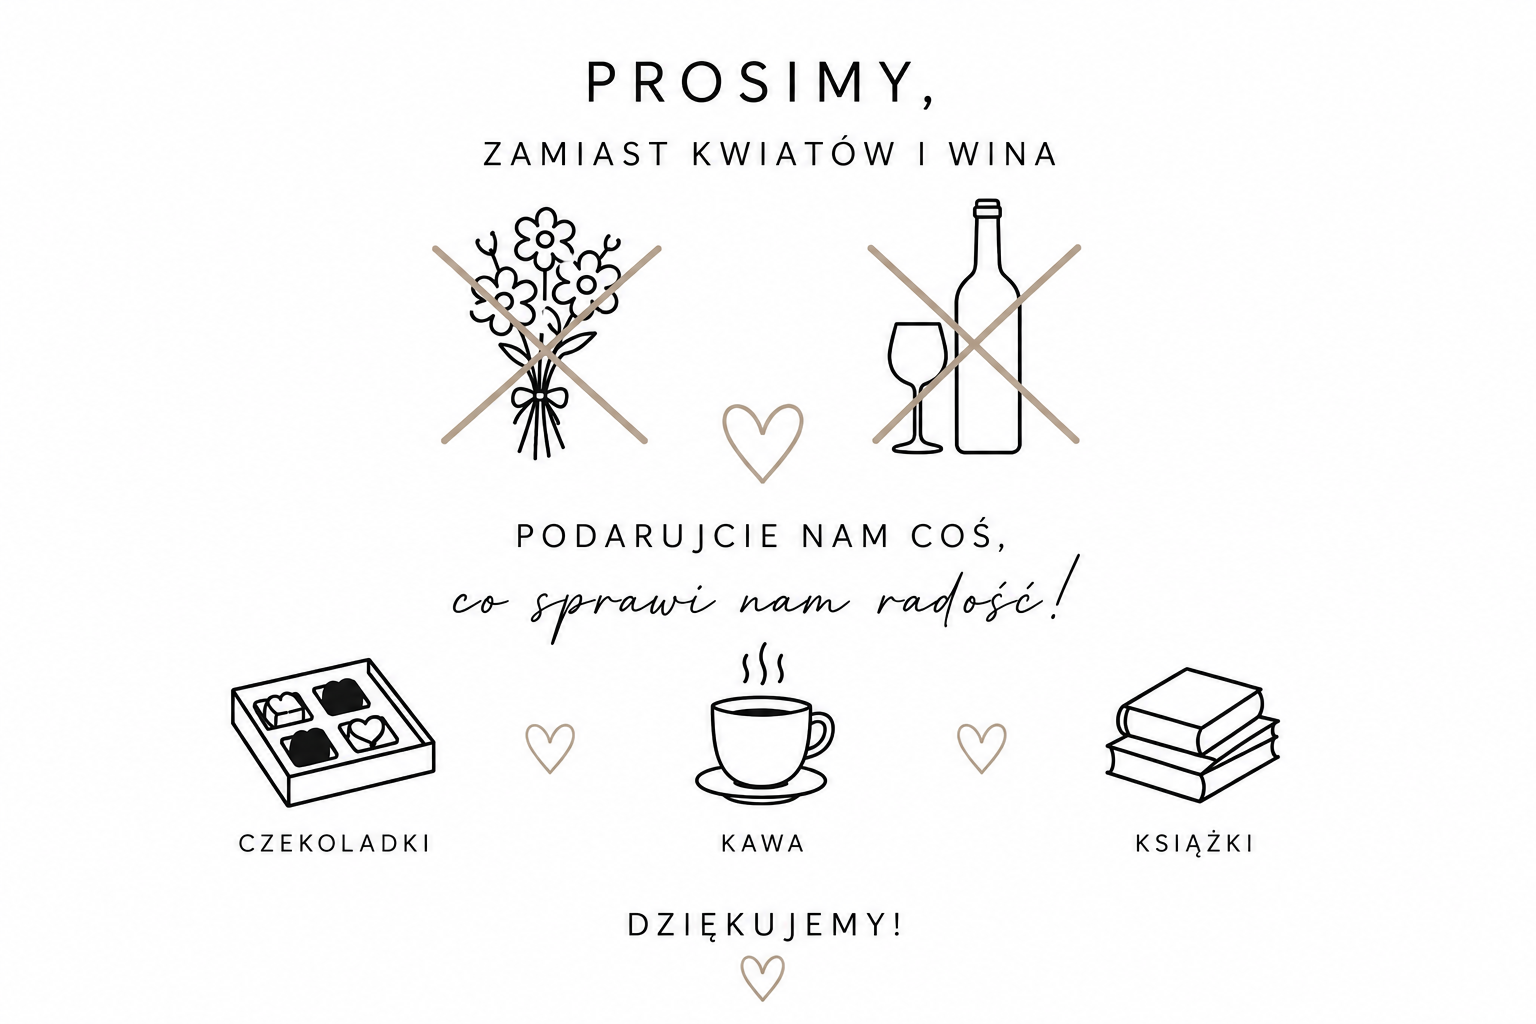
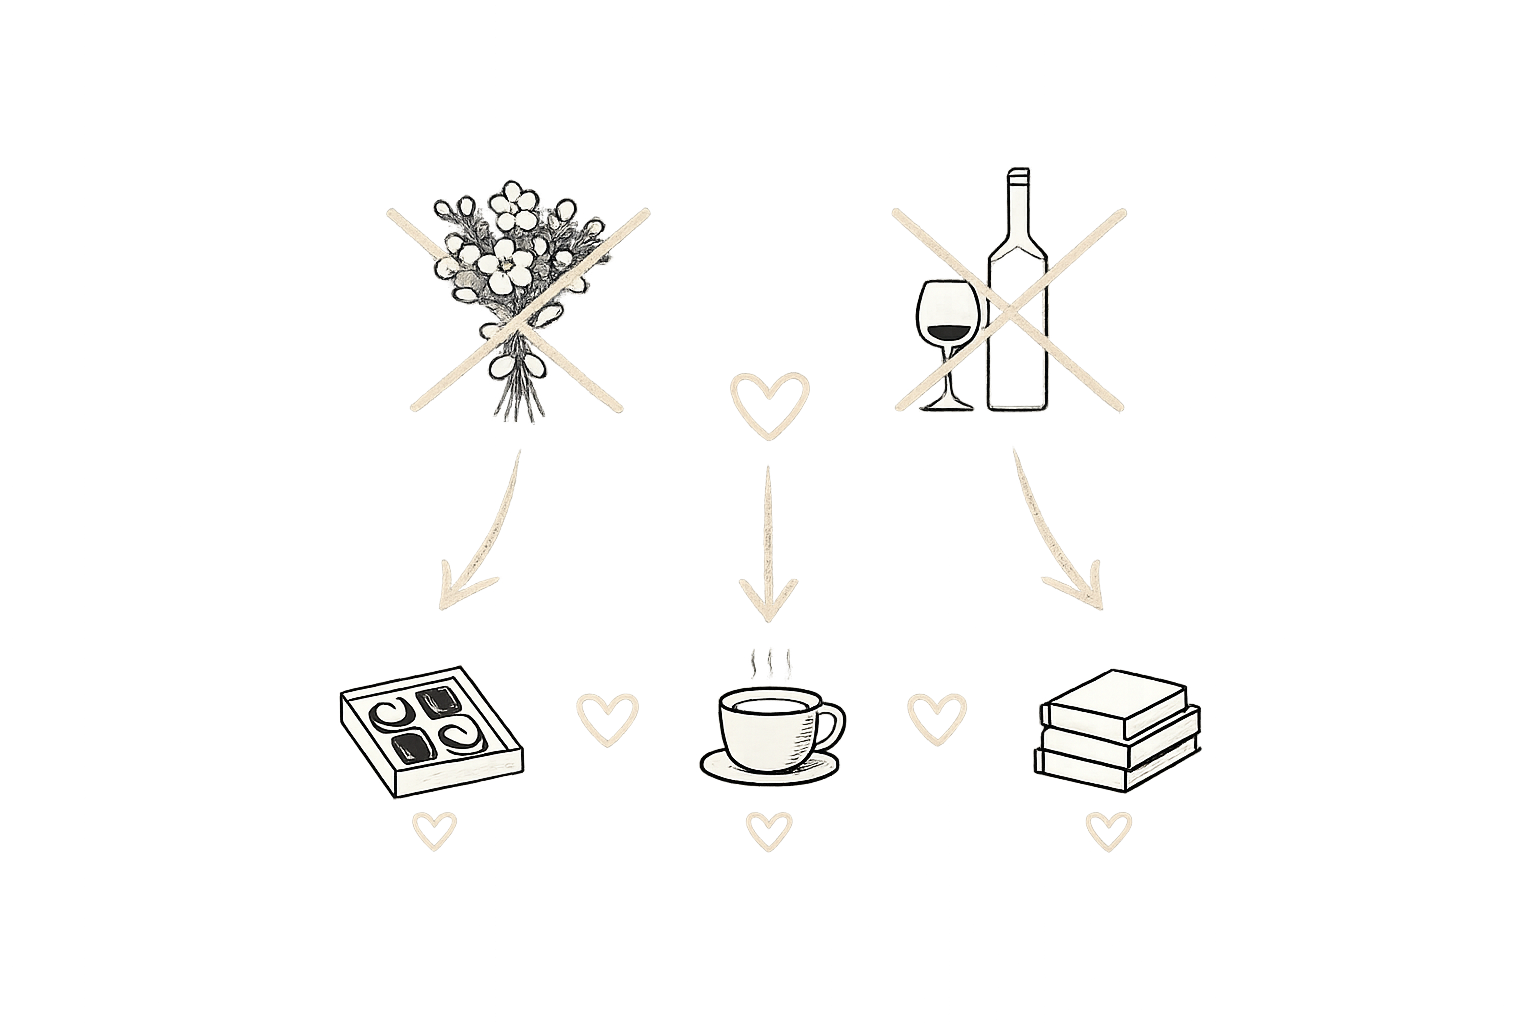
Dodano kwiaty i wino

diff --git a/src/views/home.vue b/src/views/home.vue
@@ -27,7 +27,7 @@
         </div>
         <div class="hero-date">
           <span class="hero-date-text">30 Maj 2026</span>
-          <img src="/kwiaty_2.png" alt="Kwiaty" class="hero-flowers" />
+          <img src="/kwiaty.png" alt="Kwiaty" class="hero-flowers" />
         </div>
         <p class="hero-message section-content">
         </p>
